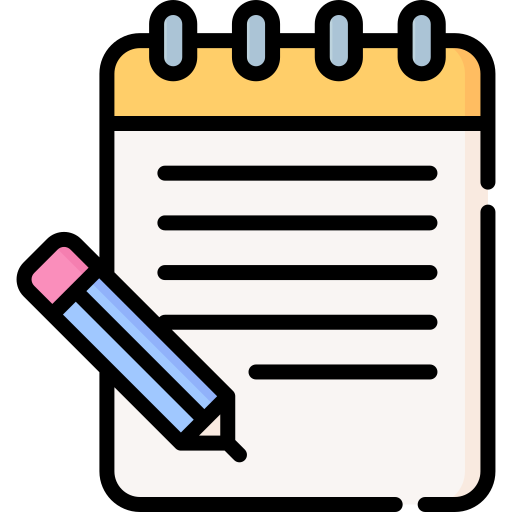
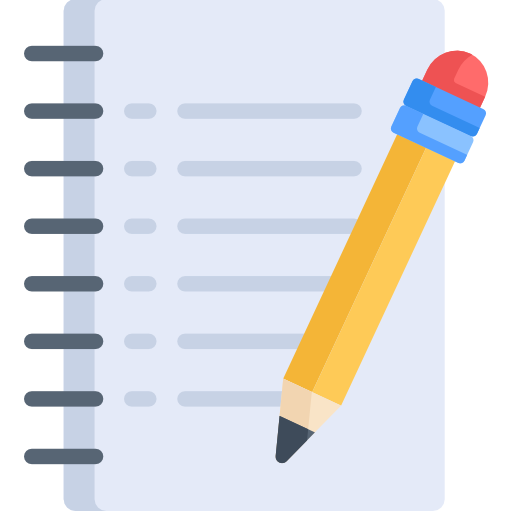
new code for chapter details

diff --git a/src/pages/ChapterDetailsScreen/ChapterDetailsScreen.tsx b/src/pages/ChapterDetailsScreen/ChapterDetailsScreen.tsx
@@ -1,11 +1,11 @@
-import { IonCol, IonContent, IonHeader, IonImg, IonPage, IonRow, IonIcon, IonText, IonAccordion, IonItem, IonLabel, IonAccordionGroup, useIonRouter } from "@ionic/react";
+import { IonCol, IonContent, IonHeader, IonImg, IonPage, IonRow, IonIcon, IonText, IonAccordion, IonItem, IonLabel, IonAccordionGroup, useIonRouter, IonThumbnail } from "@ionic/react";
 import PadAIBackheader from "../../components/Common/Backheader/Backheader";
 import PadAIChapterContainer from "../../components/HomeScreen/ChapterContainer/ChapterContainer";
 import { useLocation, useParams } from "react-router-dom";
 import { useEffect, useState } from "react";
 import { arrowBack, bookOutline } from "ionicons/icons";
 import './ChapterDetailsScreen.css';
-import { IChapterResources, IGetChapterResourcesRequest } from "../../api/contentApi/contentApi.interface";
+import { IChapterResources, IGetChapterResourcesRequest, IResourceItem } from "../../api/contentApi/contentApi.interface";
 import { GetChapterResources } from "../../services/homeService";
 import { useToaster } from "../../hooks/toasterHooks/useToaster";
 const chapter = {
@@ -72,7 +72,15 @@ const PadAIChapterDetailsScreen: React.FC = () => {
             setLoading(false);
         }
     }
-
+    const getChapterImage = (resource: IResourceItem, key: string) => {
+     if(key === 'BOOK READER') return '/assets/images/chapterResources/pdf.png';
+        // else if(key === 'VIDEO EXPLAINERS') '/assets/images/chapterResources/youtube.png';
+        else if(key === 'VIDEO EXPLAINERS')return '/assets/images/chapterResources/video.png';
+        else if(key === 'QUESTION ANSWERS') return '/assets/images/chapterResources/question.png';
+        else if(key === 'QUIZ') return '/assets/images/chapterResources/speech-bubble.png';
+        else if(key === 'FLASHCARDS') return '/assets/images/chapterResources/flash-card.png';
+        else if(key === 'NOTES & REFERENCES') return '/assets/images/chapterResources/pen-and-paper.png';
+    }
     useEffect(() => {
         console.log('useEffect triggered with chapterId:', chapterId);
         if (chapterId) {
@@ -117,15 +125,18 @@ const PadAIChapterDetailsScreen: React.FC = () => {
                 )}
 
                 {chapterId && !loading && chapterResources && (
-                    <IonAccordionGroup>
+                    <IonAccordionGroup className="padAIChapterDetailsScreenContentAccordionGroup">
                         {Object.keys(chapterResources).map((resource, index) => (
-                            <IonAccordion value={resource} key={index}>
-                                <IonItem slot="header" color="light">
+                            <IonAccordion value={resource} key={index} className="padAIChapterDetailsScreenContentAccordionBox">
+                                <IonItem slot="header" lines="none">
+                                    <IonThumbnail slot="start" className="padAIChapterDetailsScreenContentAccordionThumbnail">
+                                        <IonImg src={getChapterImage(chapterResources[resource as keyof IChapterResources][0], resource)} alt="chapterImage" className="resourceContainerimg" />
+                                    </IonThumbnail>
                                     <IonLabel>{resource}</IonLabel>
                                 </IonItem>
                                 <div className="padAIChapterDetailsScreenContentAccordion" slot="content">
                                     {chapterResources[resource as keyof IChapterResources].map((resourceItem, index) => (
-                                        <IonItem lines="none" color={'light'} className={index+1 !==chapterResources[resource as keyof IChapterResources].length ? "ion-margin-bottom" : ""}><IonLabel key={index}>{resourceItem.name}</IonLabel></IonItem>
+                                        <IonItem lines="none" color={'light'} className="padAIChapterDetailsScreenContentAccordionItem"><IonLabel key={index}>{resourceItem.name}</IonLabel></IonItem>
                                     ))}
                                 </div>
                             </IonAccordion>

diff --git a/src/components/HomeScreen/BooksContainer/BooksContainer.tsx b/src/components/HomeScreen/BooksContainer/BooksContainer.tsx
@@ -36,7 +36,7 @@ const PadAIBooksContainer: React.FC<IBooksContainerProps> = ({ booksImage, books
             <IonImg src={booksImage} alt={booksName} className='padAIHomeScreenUserBooksImage' />
             <IonText className="ion-text-wrap padAIHomeScreenUserBooks-text-container" style={{ textOverflow: 'ellipsis' }}>
                 <p className='padAIHomeScreenUserBooks-text'>{booksName}, {booksSubject}</p>
-                <p className='padAIHomeScreenUserBooks-text author-text'>{booksAuthor}</p>
+                {/* <p className='padAIHomeScreenUserBooks-text author-text'>{booksAuthor}</p> */}
             </IonText>
         </IonCol>
     )

diff --git a/src/pages/ChapterDetailsScreen/ChapterDetailsScreen.css b/src/pages/ChapterDetailsScreen/ChapterDetailsScreen.css
@@ -25,3 +25,17 @@
 .padAIChapterDetailsScreenContentAccordion{
     padding:3px
 }
+.padAIChapterDetailsScreenContentAccordionGroup{
+    padding: 7px 15px;
+}
+.padAIChapterDetailsScreenContentAccordionBox{
+    border-radius: 10px;
+    border: 1px solid #9e9e9e;
+    margin-bottom: 10px;
+}
+.padAIChapterDetailsScreenContentAccordionItem{
+    margin-bottom: 3px;
+}
+.padAIChapterDetailsScreenContentAccordionThumbnail{
+    --size: 40px !important;
+}

diff --git a/src/api/contentApi/contentApi.interface.ts b/src/api/contentApi/contentApi.interface.ts
@@ -18,6 +18,7 @@ export interface IResourceItem {
     script?: string;
     htmlView?: string;
     content?: string;
+    image?: string;
 }
 
 // Chapter Resources Interface - matches the exact structure from your object
